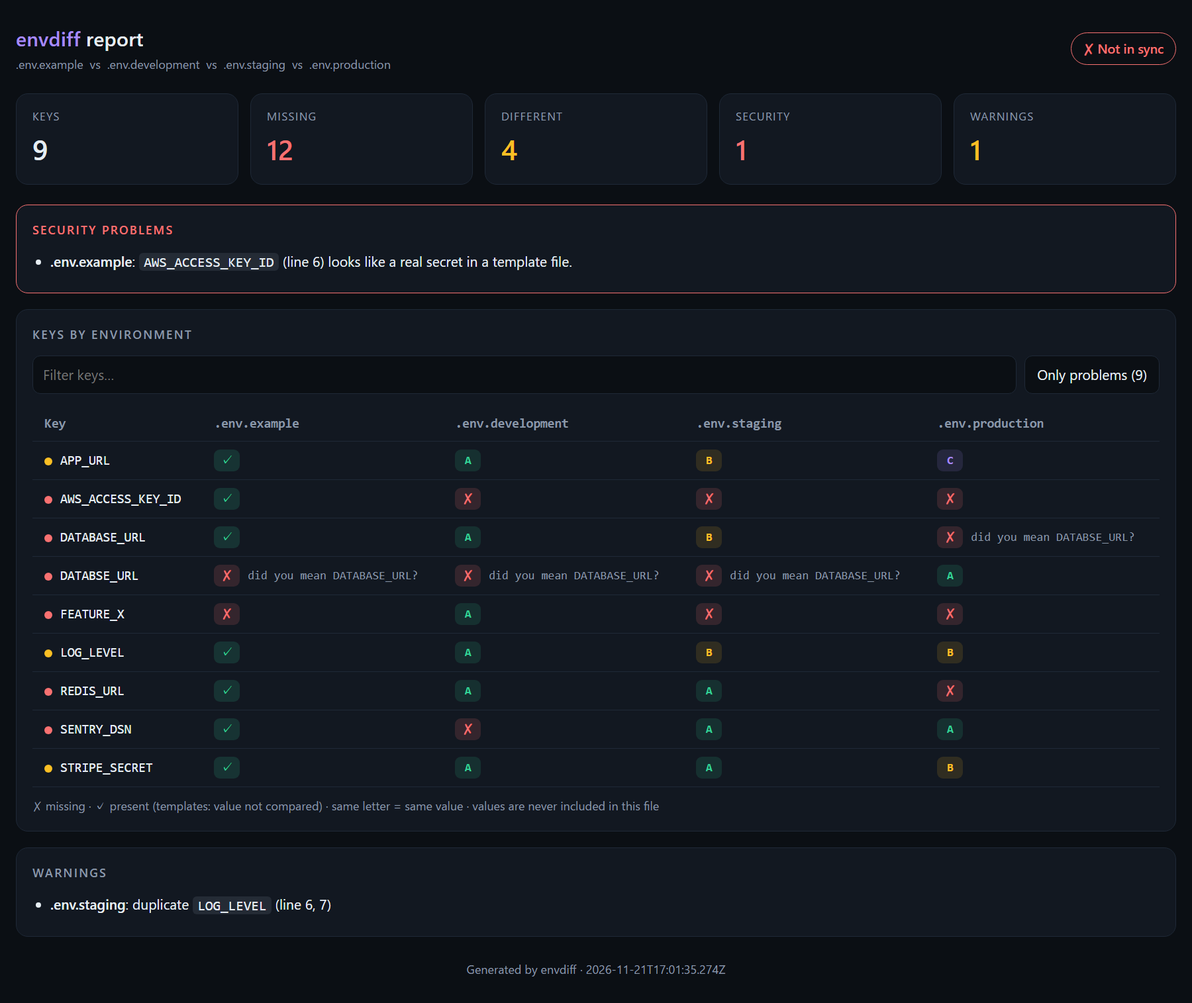
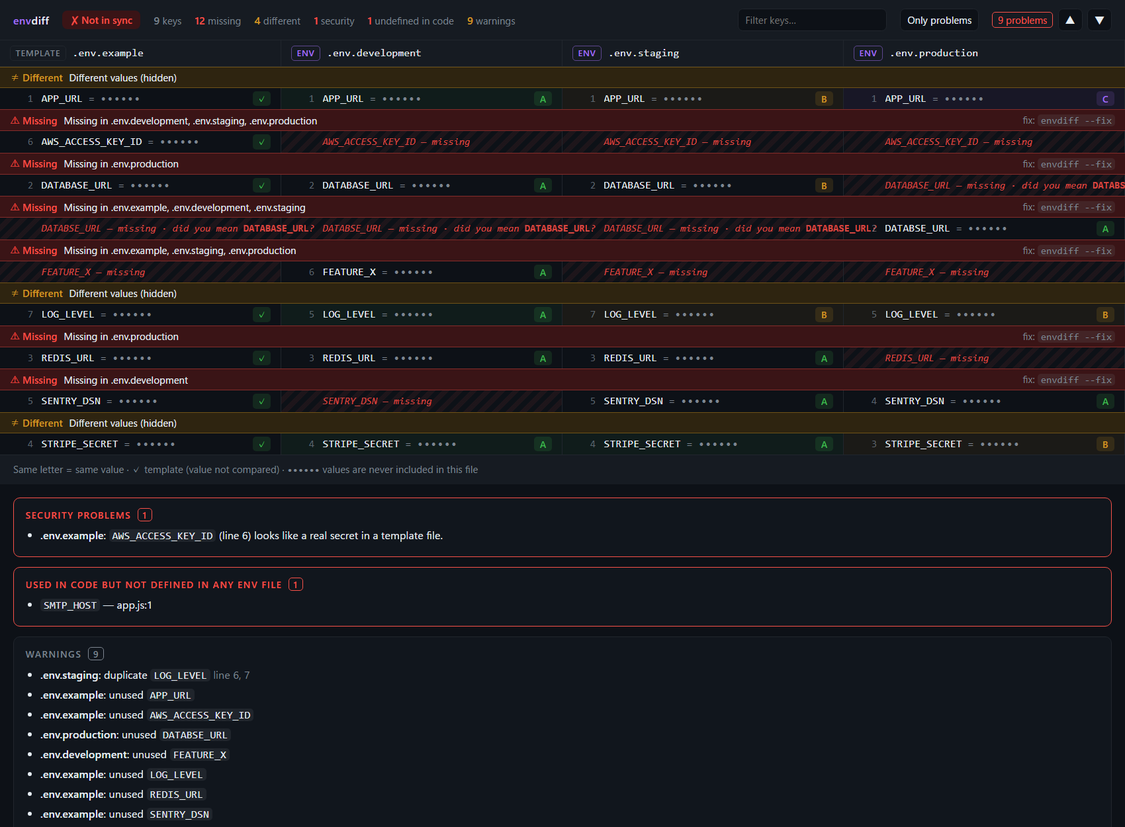
Editor-style side-by-side report and --open (#24)

diff --git a/src/html.js b/src/html.js
@@ -1,89 +1,122 @@
-// Renders a compare() report as one self-contained HTML page (no network, no values).
+// Renders a compare() report as one self-contained, editor-style HTML page (no network, no values).
 // Keys and file names come from user files, so everything is HTML-escaped.
 const esc = (s) => String(s).replace(/[&<>"']/g, (ch) => ({ '&': '&amp;', '<': '&lt;', '>': '&gt;', '"': '&quot;', "'": '&#39;' })[ch]);
 const letter = (n) => String.fromCharCode(65 + n);
+const isTemplate = (name) => /example|sample|template|dist/i.test(name);
+const MASK = '••••••'; // fixed width: does not even reveal value length
 
 export function renderHtml(r, { keysOnly = false, generated = new Date().toISOString() } = {}) {
-  const missingCount = r.missing.reduce((n, m) => n + m.keys.length, 0);
-  const problemKeys = new Set([...r.missing.flatMap((m) => m.keys), ...r.different]);
-  const stats = [
-    ['Keys', r.table.length, ''],
-    ['Missing', missingCount, missingCount ? 'bad' : 'good'],
-    ['Different', r.different.length, r.different.length ? 'warn' : 'good'],
-    ['Security', r.leaks.length, r.leaks.length ? 'bad' : 'good'],
-    ['Warnings', r.warnings.length, r.warnings.length ? 'warn' : 'good'],
-  ];
+  const n = r.files.length;
+  const missingCount = r.missing.reduce((s, m) => s + m.keys.length, 0);
+  const undef = r.undefinedInCode || [];
   const hint = (file, key) => r.suggestions.find((s) => s.file === file && s.missing === key);
-  const cell = (v, file, key) => {
-    if (v === null) {
-      const s = hint(file, key);
-      return `<td><span class="chip miss" title="Missing in ${esc(file)}">✗</span>${s ? `<span class="hint">did you mean ${esc(s.similar)}?</span>` : ''}</td>`;
-    }
-    return keysOnly || v < 0 ? '<td><span class="chip ok" title="Present (template value not compared)">✓</span></td>' : `<td><span class="chip g${v % 6}" title="Value group ${letter(v)}">${letter(v)}</span></td>`;
-  };
+  const cols = `style="grid-template-columns:repeat(${n},minmax(260px,1fr))"`;
+
+  const heads = r.files.map((f) => `<div class="tab"><span class="role ${isTemplate(f) ? 'tpl' : 'env'}">${isTemplate(f) ? 'TEMPLATE' : 'ENV'}</span><span class="path" title="${esc(f)}">${esc(f)}</span></div>`).join('');
+
+  let problems = 0;
   const rows = r.table.map((t) => {
-    const state = t.cells.includes(null) ? 'missing' : t.cells.some((v) => v > 0) ? 'different' : 'same';
-    return `<tr data-state="${state}" data-key="${esc(t.key.toLowerCase())}"><th scope="row"><span class="dot ${state}"></span>${esc(t.key)}</th>${t.cells.map((v, i) => cell(v, r.files[i], t.key)).join('')}</tr>`;
+    const missingIn = t.cells.map((v, i) => (v === null ? r.files[i] : null)).filter(Boolean);
+    const differs = r.different.includes(t.key);
+    const state = missingIn.length ? 'missing' : differs ? 'different' : 'same';
+    let band = '';
+    if (state !== 'same') {
+      problems++;
+      const what = missingIn.length ? `Missing in ${missingIn.map(esc).join(', ')}` : 'Different values (hidden)';
+      band = `<div class="band ${state}"><span class="tag">${state === 'missing' ? '⚠ Missing' : '≠ Different'}</span><span>${what}</span>${missingIn.length ? '<span class="fixhint">fix: <code>envdiff --fix</code></span>' : ''}</div>`;
+    }
+    const cells = t.cells.map((v, i) => {
+      if (v === null) {
+        const s = hint(r.files[i], t.key);
+        return `<div class="cell gone"><span class="ln"></span><span class="ghost">${esc(t.key)} — missing${s ? ` · did you mean <b>${esc(s.similar)}</b>?` : ''}</span></div>`;
+      }
+      const chip = keysOnly || v < 0 ? '<span class="chip tplchip" title="Template: value not compared">✓</span>' : `<span class="chip g${v % 6}" title="Value group ${letter(v)}: same letter means same value">${letter(v)}</span>`;
+      const tint = !keysOnly && v >= 0 && state === 'different' ? ` g${v % 6}bg` : '';
+      return `<div class="cell${tint}"><span class="ln">${t.lines[i] ?? ''}</span><code><span class="k">${esc(t.key)}</span> <span class="eq">=</span> <span class="mask">${MASK}</span></code>${chip}</div>`;
+    }).join('');
+    return `<div class="item" data-state="${state}" data-key="${esc(t.key.toLowerCase())}">${band}<div class="row" ${cols}>${cells}</div></div>`;
   }).join('');
+
   const leakText = (w) => (w.type === 'tracked-by-git'
-    ? `<b>${esc(w.file)}</b> is committed to git — remove it with <code>git rm --cached</code> and rotate its secrets.`
+    ? `<b>${esc(w.file)}</b> is committed to git. Remove it with <code>git rm --cached</code> and rotate its secrets.`
     : `<b>${esc(w.file)}</b>: <code>${esc(w.key)}</code> (line ${w.lines?.[0] ?? '?'}) looks like a real secret in a template file.`);
-  const warnText = (w) => `<b>${esc(w.file)}</b>: ${esc(w.type)}${w.key ? ` <code>${esc(w.key)}</code>` : ''}${w.lines ? ` (line ${w.lines.join(', ')})` : ''}`;
-  const list = (title, cls, items) => (items.length ? `<section class="panel ${cls}"><h2>${title}</h2><ul>${items.map((i) => `<li>${i}</li>`).join('')}</ul></section>` : '');
+  const warnText = (w) => `<b>${esc(w.file)}</b>: ${esc(w.type)}${w.key ? ` <code>${esc(w.key)}</code>` : ''}${w.lines ? ` <span class="muted">line ${w.lines.join(', ')}</span>` : ''}`;
+  const panel = (title, cls, items) => (items.length ? `<section class="panel ${cls}"><h2>${title} <span class="count">${items.length}</span></h2><ul>${items.map((i) => `<li>${i}</li>`).join('')}</ul></section>` : '');
+  const stat = (label, value, cls) => `<span class="stat ${value ? cls : 'zero'}"><b>${value}</b> ${label}</span>`;
 
   return `<!doctype html>
 <html lang="en"><head><meta charset="utf-8"><meta name="viewport" content="width=device-width,initial-scale=1">
 <meta http-equiv="Content-Security-Policy" content="default-src 'none'; style-src 'unsafe-inline'; script-src 'unsafe-inline'">
 <title>envdiff report</title>
 <style>
-:root{--bg:#0b0f14;--panel:#121821;--line:#1f2937;--fg:#e6edf3;--muted:#8b98a9;--good:#34d399;--warn:#fbbf24;--bad:#f87171;--accent:#a78bfa}
-@media (prefers-color-scheme:light){:root{--bg:#f6f8fa;--panel:#fff;--line:#d8dee4;--fg:#1f2328;--muted:#59636e;--good:#1a7f37;--warn:#9a6700;--bad:#cf222e;--accent:#8250df}}
-*{box-sizing:border-box}body{margin:0;background:var(--bg);color:var(--fg);font:14px/1.5 system-ui,-apple-system,Segoe UI,Roboto,sans-serif}
-.wrap{max-width:1200px;margin:0 auto;padding:24px 16px 48px}
-header{display:flex;flex-wrap:wrap;gap:12px;align-items:center;justify-content:space-between;margin-bottom:20px}
-h1{font-size:20px;margin:0;letter-spacing:.2px}h1 span{color:var(--accent)}.sub{color:var(--muted);font-size:12px;margin-top:2px}
-.pill{padding:6px 12px;border-radius:999px;font-weight:600;font-size:13px;border:1px solid}
-.pill.good{color:var(--good);border-color:var(--good)}.pill.bad{color:var(--bad);border-color:var(--bad)}
-.stats{display:grid;grid-template-columns:repeat(auto-fit,minmax(150px,1fr));gap:12px;margin-bottom:20px}
-.stat{background:var(--panel);border:1px solid var(--line);border-radius:12px;padding:14px 16px}
-.stat .label{color:var(--muted);font-size:11px;text-transform:uppercase;letter-spacing:1px}.stat .n{font-size:28px;font-weight:700;margin-top:4px}
-.stat.good .n{color:var(--good)}.stat.warn .n{color:var(--warn)}.stat.bad .n{color:var(--bad)}
-.panel{background:var(--panel);border:1px solid var(--line);border-radius:12px;padding:16px;margin-bottom:16px}
-.panel h2{font-size:12px;text-transform:uppercase;letter-spacing:1.5px;margin:0 0 12px;color:var(--muted)}
-.panel.bad{border-color:var(--bad)}.panel.bad h2{color:var(--bad)}.panel ul{margin:0;padding-left:18px}.panel li{margin:4px 0}
-.tools{display:flex;flex-wrap:wrap;gap:8px;margin-bottom:12px}
-input[type=search]{flex:1;min-width:200px;background:var(--bg);color:var(--fg);border:1px solid var(--line);border-radius:8px;padding:8px 10px;font:inherit}
-.tools button{background:var(--bg);color:var(--fg);border:1px solid var(--line);border-radius:8px;padding:8px 12px;font:inherit;cursor:pointer}
-.tools button[aria-pressed=true]{border-color:var(--accent);color:var(--accent)}
-.scroll{overflow-x:auto}table{border-collapse:collapse;width:100%;font-family:ui-monospace,SFMono-Regular,Menlo,Consolas,monospace;font-size:13px}
-thead th{position:sticky;top:0;background:var(--panel);text-align:left;color:var(--muted);font-weight:600;padding:8px 12px;border-bottom:1px solid var(--line);white-space:nowrap}
-tbody th{text-align:left;font-weight:500;padding:8px 12px;white-space:nowrap}td{padding:8px 12px;white-space:nowrap}
-tbody tr{border-bottom:1px solid var(--line)}tbody tr:hover{background:color-mix(in srgb,var(--accent) 6%,transparent)}
-.dot{display:inline-block;width:8px;height:8px;border-radius:50%;margin-right:8px;vertical-align:middle}
-.dot.same{background:var(--good)}.dot.different{background:var(--warn)}.dot.missing{background:var(--bad)}
-.chip{display:inline-flex;align-items:center;justify-content:center;min-width:26px;height:22px;padding:0 6px;border-radius:6px;font-weight:700;font-size:12px}
-.chip.miss{color:var(--bad);background:color-mix(in srgb,var(--bad) 15%,transparent)}.chip.ok{color:var(--good);background:color-mix(in srgb,var(--good) 15%,transparent)}
-.g0{color:#34d399;background:#34d39922}.g1{color:#fbbf24;background:#fbbf2422}.g2{color:#a78bfa;background:#a78bfa22}.g3{color:#60a5fa;background:#60a5fa22}.g4{color:#f472b6;background:#f472b622}.g5{color:#2dd4bf;background:#2dd4bf22}
-.hint{margin-left:8px;color:var(--muted);font-size:12px}.legend{color:var(--muted);font-size:12px;margin-top:10px}
-code{font-family:ui-monospace,Menlo,Consolas,monospace;background:color-mix(in srgb,var(--muted) 15%,transparent);padding:1px 5px;border-radius:4px}
-footer{color:var(--muted);font-size:12px;text-align:center;margin-top:24px}
-</style></head><body><div class="wrap">
-<header><div><h1><span>envdiff</span> report</h1><div class="sub">${r.files.map(esc).join(' &nbsp;vs&nbsp; ')}</div></div>
-<div class="pill ${r.ok ? 'good' : 'bad'}">${r.ok ? '✓ In sync' : '✗ Not in sync'}</div></header>
-<div class="stats">${stats.map(([l, n, c]) => `<div class="stat ${c}"><div class="label">${l}</div><div class="n">${n}</div></div>`).join('')}</div>
-${list('Security problems', 'bad', r.leaks.map(leakText))}
-${list('Used in code but not defined in any env file', 'bad', (r.undefinedInCode || []).map((u) => `<code>${esc(u.key)}</code> — ${esc(u.refs[0].file)}:${u.refs[0].line}${u.refs.length > 1 ? ` (+${u.refs.length - 1} more)` : ''}`))}
-<section class="panel"><h2>Keys by environment</h2>
-<div class="tools"><input type="search" id="q" placeholder="Filter keys…" aria-label="Filter keys">
-<button type="button" id="only" aria-pressed="false">Only problems (${problemKeys.size})</button></div>
-<div class="scroll"><table><thead><tr><th scope="col">Key</th>${r.files.map((f) => `<th scope="col">${esc(f)}</th>`).join('')}</tr></thead><tbody>${rows}</tbody></table></div>
-<div class="legend">✗ missing · ✓ present${keysOnly ? '' : ' (templates: value not compared) · same letter = same value'} · values are never included in this file</div></section>
-${list('Warnings', '', r.warnings.map(warnText))}
-<footer>Generated by envdiff · ${esc(generated)}</footer></div>
+:root{--bg:#0d1117;--bar:#161b22;--panel:#11161d;--line:#21262d;--fg:#e6edf3;--muted:#7d8590;--bad:#f85149;--badbg:#3a1416;--warn:#d29922;--warnbg:#2e2410;--good:#3fb950;--accent:#a371f7}
+@media (prefers-color-scheme:light){:root{--bg:#ffffff;--bar:#f6f8fa;--panel:#ffffff;--line:#d0d7de;--fg:#1f2328;--muted:#59636e;--bad:#cf222e;--badbg:#ffebe9;--warn:#9a6700;--warnbg:#fff8c5;--good:#1a7f37;--accent:#8250df}}
+*{box-sizing:border-box}body{margin:0;background:var(--bg);color:var(--fg);font:13px/1.5 system-ui,-apple-system,Segoe UI,Roboto,sans-serif}
+code,.mono{font-family:ui-monospace,SFMono-Regular,Menlo,Consolas,monospace}
+.top{display:flex;flex-wrap:wrap;align-items:center;gap:10px 16px;padding:10px 16px;background:var(--bar);border-bottom:1px solid var(--line);position:sticky;top:0;z-index:3}
+.brand{font-weight:700;letter-spacing:.3px}.brand span{color:var(--accent)}
+.status{padding:2px 10px;border-radius:6px;font-weight:600;font-size:12px}.status.bad{color:var(--bad);background:var(--badbg)}.status.good{color:var(--good);background:color-mix(in srgb,var(--good) 15%,transparent)}
+.stat{font-size:12px;color:var(--muted)}.stat b{font-size:13px}.stat.bad b{color:var(--bad)}.stat.warn b{color:var(--warn)}.stat.zero b{color:var(--muted)}
+.spacer{flex:1}
+.nav{display:flex;align-items:center;gap:6px}.nav .count{font-size:12px;color:var(--bad);border:1px solid var(--bad);border-radius:4px;padding:0 6px}
+button,input[type=search]{background:var(--bg);color:var(--fg);border:1px solid var(--line);border-radius:6px;font:inherit;font-size:12px;padding:4px 8px}
+button{cursor:pointer}button:hover{border-color:var(--accent)}button[aria-pressed=true]{border-color:var(--accent);color:var(--accent)}
+input[type=search]{width:180px}
+.editor{overflow-x:auto}
+.heads,.row{display:grid}
+.heads{background:var(--bar);border-bottom:1px solid var(--line)}
+.tab{display:flex;align-items:center;gap:8px;padding:6px 12px;border-right:1px solid var(--line);min-width:0}
+.role{font-size:10px;font-weight:700;letter-spacing:.8px;padding:1px 6px;border-radius:4px;border:1px solid var(--line);color:var(--muted)}.role.env{color:var(--accent);border-color:color-mix(in srgb,var(--accent) 50%,transparent)}
+.path{font-family:ui-monospace,Menlo,Consolas,monospace;white-space:nowrap;overflow:hidden;text-overflow:ellipsis}
+.cell{display:flex;align-items:center;gap:10px;padding:2px 12px 2px 0;border-right:1px solid var(--line);min-height:26px;white-space:nowrap}
+.ln{width:40px;text-align:right;color:var(--muted);font-family:ui-monospace,Menlo,Consolas,monospace;font-size:12px;flex:none;opacity:.7}
+.cell code{flex:1;overflow:hidden;text-overflow:ellipsis}.k{color:var(--fg)}.eq{color:var(--muted)}.mask{color:var(--muted);letter-spacing:1px}
+.ghost{color:var(--bad);font-style:italic;opacity:.85;font-family:ui-monospace,Menlo,Consolas,monospace;font-size:12px}.ghost b{font-style:normal}
+.cell.gone{background:repeating-linear-gradient(135deg,transparent 0 6px,color-mix(in srgb,var(--bad) 7%,transparent) 6px 12px)}
+.item .row:hover{background:color-mix(in srgb,var(--accent) 5%,transparent)}
+.band{display:flex;flex-wrap:wrap;align-items:center;gap:8px;padding:3px 12px;font-size:12px;border-top:1px solid;border-bottom:1px solid}
+.band.missing{background:var(--badbg);border-color:color-mix(in srgb,var(--bad) 40%,transparent)}.band.missing .tag{color:var(--bad)}
+.band.different{background:var(--warnbg);border-color:color-mix(in srgb,var(--warn) 40%,transparent)}.band.different .tag{color:var(--warn)}
+.band .tag{font-weight:700}.fixhint{margin-left:auto;color:var(--muted)}
+.item.current .band{outline:2px solid var(--accent);outline-offset:-2px}
+.chip{display:inline-flex;align-items:center;justify-content:center;min-width:22px;height:18px;padding:0 5px;border-radius:4px;font-weight:700;font-size:11px;flex:none}
+.tplchip{color:var(--good);background:color-mix(in srgb,var(--good) 14%,transparent)}
+.g0{color:#3fb950;background:#3fb95024}.g1{color:#d29922;background:#d2992224}.g2{color:#a371f7;background:#a371f724}.g3{color:#58a6ff;background:#58a6ff24}.g4{color:#f778ba;background:#f778ba24}.g5{color:#39c5cf;background:#39c5cf24}
+.g0bg{background:#3fb95012}.g1bg{background:#d2992212}.g2bg{background:#a371f712}.g3bg{background:#58a6ff12}.g4bg{background:#f778ba12}.g5bg{background:#39c5cf12}
+.legend{padding:8px 16px;color:var(--muted);font-size:12px;border-top:1px solid var(--line);background:var(--bar)}
+.panels{padding:16px;display:grid;gap:12px}
+.panel{background:var(--panel);border:1px solid var(--line);border-radius:8px;padding:12px 14px}.panel.bad{border-color:var(--bad)}
+.panel h2{margin:0 0 6px;font-size:11px;letter-spacing:1.2px;text-transform:uppercase;color:var(--muted)}.panel.bad h2{color:var(--bad)}
+.panel .count{border:1px solid currentColor;border-radius:4px;padding:0 5px;margin-left:4px}.panel ul{margin:0;padding-left:18px}.panel li{margin:3px 0}
+.muted{color:var(--muted)}
+code{background:color-mix(in srgb,var(--muted) 14%,transparent);padding:0 4px;border-radius:4px}.cell code{background:none;padding:0}
+footer{color:var(--muted);font-size:11px;text-align:center;padding:16px}
+</style></head><body>
+<div class="top">
+<span class="brand"><span>env</span>diff</span>
+<span class="status ${r.ok ? 'good' : 'bad'}">${r.ok ? '✓ In sync' : '✗ Not in sync'}</span>
+${stat('keys', r.table.length, '')}${stat('missing', missingCount, 'bad')}${stat('different', r.different.length, 'warn')}${stat('security', r.leaks.length, 'bad')}${undef.length ? stat('undefined in code', undef.length, 'bad') : ''}${stat('warnings', r.warnings.length, 'warn')}
+<span class="spacer"></span>
+<input type="search" id="q" placeholder="Filter keys…" aria-label="Filter keys">
+<button type="button" id="only" aria-pressed="false">Only problems</button>
+<span class="nav"><span class="count" id="pos">${problems} problem${problems === 1 ? '' : 's'}</span><button type="button" id="prev" aria-label="Previous problem">▲</button><button type="button" id="next" aria-label="Next problem">▼</button></span>
+</div>
+<div class="editor"><div class="heads" ${cols}>${heads}</div>${rows}</div>
+<div class="legend">Same letter = same value · ✓ template (value not compared) · <span class="mono">${MASK}</span> values are never included in this file</div>
+<div class="panels">
+${panel('Security problems', 'bad', r.leaks.map(leakText))}
+${panel('Used in code but not defined in any env file', 'bad', undef.map((u) => `<code>${esc(u.key)}</code> — ${esc(u.refs[0].file)}:${u.refs[0].line}${u.refs.length > 1 ? ` <span class="muted">(+${u.refs.length - 1} more)</span>` : ''}`))}
+${panel('Warnings', '', r.warnings.map(warnText))}
+</div>
+<footer>Generated by envdiff · ${esc(generated)}</footer>
 <script>
-const q=document.getElementById('q'),only=document.getElementById('only'),rows=[...document.querySelectorAll('tbody tr')];
-function apply(){const t=q.value.toLowerCase(),p=only.getAttribute('aria-pressed')==='true';for(const r of rows)r.hidden=!r.dataset.key.includes(t)||(p&&r.dataset.state==='same');}
+const q=document.getElementById('q'),only=document.getElementById('only'),items=[...document.querySelectorAll('.item')];
+const probs=()=>items.filter(i=>i.dataset.state!=='same'&&!i.hidden);let cur=-1;
+function apply(){const t=q.value.toLowerCase(),p=only.getAttribute('aria-pressed')==='true';for(const i of items)i.hidden=!i.dataset.key.includes(t)||(p&&i.dataset.state==='same');}
+function go(d){const ps=probs();if(!ps.length)return;cur=(cur+d+ps.length)%ps.length;items.forEach(i=>i.classList.remove('current'));ps[cur].classList.add('current');ps[cur].scrollIntoView({block:'center',behavior:'smooth'});document.getElementById('pos').textContent=(cur+1)+' / '+ps.length;}
 q.addEventListener('input',apply);only.addEventListener('click',()=>{only.setAttribute('aria-pressed',String(only.getAttribute('aria-pressed')!=='true'));apply();});
+document.getElementById('prev').onclick=()=>go(-1);document.getElementById('next').onclick=()=>go(1);
+document.addEventListener('keydown',e=>{if(e.target===q)return;if(e.key==='j')go(1);if(e.key==='k')go(-1);});
 </script></body></html>
 `;
 }

diff --git a/bin/envdiff.js b/bin/envdiff.js
@@ -1,8 +1,9 @@
 #!/usr/bin/env node
 import { readFileSync, appendFileSync, writeFileSync, readdirSync, statSync } from 'node:fs';
 import { parseArgs } from 'node:util';
-import { spawnSync } from 'node:child_process';
-import { basename, dirname, resolve } from 'node:path';
+import { spawnSync, spawn } from 'node:child_process';
+import { tmpdir } from 'node:os';
+import { basename, dirname, resolve, join } from 'node:path';
 import { compare } from '../src/index.js';
 import { renderHtml } from '../src/html.js';
 import { scanCode } from '../src/scan.js';
@@ -20,6 +21,7 @@ Options:
   --table       Key x file grid: ✗ missing, same letter = same value
   --fix         Append missing keys (empty values) to the files that lack them
   --html FILE   Also write a visual HTML report (never contains values)
+  --open        Open the visual report in your browser (temp file if no --html)
   --scan DIR    Scan source code in DIR: keys used in code but not defined fail,
                 defined keys never used in code warn (e.g. --scan .)
   --json        Machine-readable output
@@ -32,7 +34,7 @@ let args;
 try {
   args = parseArgs({ allowPositionals: true, options: {
     'keys-only': { type: 'boolean' }, json: { type: 'boolean' }, ignore: { type: 'string', multiple: true }, strict: { type: 'boolean' },
-    table: { type: 'boolean' }, fix: { type: 'boolean' }, html: { type: 'string' }, scan: { type: 'string' },
+    table: { type: 'boolean' }, fix: { type: 'boolean' }, html: { type: 'string' }, scan: { type: 'string' }, open: { type: 'boolean' },
     help: { type: 'boolean', short: 'h' }, version: { type: 'boolean', short: 'v' } } });
 } catch (e) { console.error(e.message + '\n\n' + HELP); process.exit(2); }
 const { values: o, positionals } = args;
@@ -95,10 +97,18 @@ if (o.fix) {
   }
   r = compare(files, opts);
 }
+// --open without --html: write the report to a temp file (it never contains values) and open it.
+if (o.open && !o.html) o.html = join(tmpdir(), `envdiff-report-${Date.now()}.html`);
 if (o.html) {
   if (names.some((n) => resolve(n) === resolve(o.html))) { console.error("envdiff: --html must not overwrite an input file"); process.exit(2); }
   try { writeFileSync(o.html, renderHtml(r, { keysOnly: opts.keysOnly })); } catch (e) { console.error(`envdiff: cannot write ${o.html}: ${e.code}`); process.exit(2); }
   if (!o.json) console.error(`envdiff: report written to ${o.html}`);
+  if (o.open) {
+    // explorer.exe / open / xdg-open take the path as one argument: no shell, so file names can't inject commands.
+    const cmd = process.platform === 'win32' ? 'explorer.exe' : process.platform === 'darwin' ? 'open' : 'xdg-open';
+    const args = [resolve(o.html)];
+    spawn(cmd, args, { stdio: 'ignore', detached: true }).on('error', () => console.error('envdiff: could not open a browser; open the file above manually')).unref();
+  }
 }
 if (o.json) { console.log(JSON.stringify(o.fix ? { ...r, fixed } : r, null, 2)); process.exit(r.ok ? 0 : 1); }
 

diff --git a/test/envdiff.test.js b/test/envdiff.test.js
@@ -84,7 +84,7 @@ test('secret patterns: GitLab, npm, Azure, JWT (positive and negative)', () => {
 
 test('table groups equal values without exposing them', () => {
   const r = compare([{ name: 'a', text: 'X=1\nY=1' }, { name: 'b', text: 'X=2' }, { name: 'c', text: 'X=1\nY=9' }]);
-  assert.deepEqual(r.table, [{ key: 'X', cells: [0, 1, 0] }, { key: 'Y', cells: [0, null, 1] }]);
+  assert.deepEqual(r.table, [{ key: 'X', cells: [0, 1, 0], lines: [1, 1, 1] }, { key: 'Y', cells: [0, null, 1], lines: [2, null, 2] }]);
   const d = mkdtempSync(join(tmpdir(), 'envdiff-'));
   writeFileSync(join(d, 'a.env'), 'X=topsecret\nY=1');
   writeFileSync(join(d, 'b.env'), 'X=othersecret');
@@ -146,7 +146,7 @@ test('html report: no values, escaped names, refuses to overwrite inputs', () =>
   const r = run(['a.env', 'b.env', '--html', 'report.html'], d);
   assert.equal(r.code, 1);
   const out = readFileSync(join(d, 'report.html'), 'utf8');
-  assert.match(out, /Keys by environment/);
+  assert.match(out, /class="editor"/);
   assert.ok(!out.includes('supersecret') && !out.includes('othersecret'));
   assert.equal(run(['a.env', 'b.env', '--html', 'b.env'], d).code, 2);
   assert.equal(readFileSync(join(d, 'b.env'), 'utf8'), 'X=othersecret');
@@ -200,7 +200,7 @@ test('zero-arg mode compares .env.example with .env, keys only', () => {
 test('template values are placeholders: never counted as different', () => {
   const r = compare([{ name: '.env.example', text: 'A=changeme' }, { name: '.env.dev', text: 'A=1' }, { name: '.env.prod', text: 'A=1' }]);
   assert.deepEqual(r.different, []);
-  assert.deepEqual(r.table, [{ key: 'A', cells: [-1, 0, 0] }]);
+  assert.deepEqual(r.table, [{ key: 'A', cells: [-1, 0, 0], lines: [1, 1, 1] }]);
   assert.equal(r.ok, true);
 });
 

diff --git a/src/index.js b/src/index.js
@@ -123,7 +123,7 @@ export function compare(files, { keysOnly = false, ignore = [], strict = false, 
       if (!groups.includes(v)) groups.push(v);
       return groups.indexOf(v);
     });
-    return { key, cells };
+    return { key, cells, lines: parsed.map((p) => p.vars.get(key)?.line ?? null) };
   });
   // used: Map<key, [{file, line}]> from scanCode(). Code needs a key no env file defines -> fail; defined but unused -> warn.
   const undefinedInCode = used ? [...used].filter(([k]) => !skip(k) && !parsed.some((p) => p.vars.has(k))).map(([key, refs]) => ({ key, refs })).sort((a, b) => a.key.localeCompare(b.key)) : [];

diff --git a/README.md b/README.md
@@ -71,12 +71,13 @@ Or without the action: `npx @guihakka2/envdiff .env.example .env.ci --keys-only`
 ## Visual report
 
 ```bash
-npx @guihakka2/envdiff .env.example .env.development .env.staging .env.production --html report.html
+npx @guihakka2/envdiff --open                      # opens the visual report in your browser
+npx @guihakka2/envdiff --scan . --html report.html  # or save it, e.g. as a CI artifact
 ```
 
-<p align="center"><img src="docs/report.png" alt="envdiff HTML report: key by environment grid, security problems and stats" width="760"></p>
+<p align="center"><img src="docs/report.png" alt="envdiff side-by-side report: one column per env file, missing and different keys highlighted, values masked" width="760"></p>
 
-One self-contained HTML file (dark and light mode, works offline, filter + "only problems"). Like the terminal output, it **never contains values**, so it is safe to attach to CI runs or share with your team.
+A side-by-side, editor-style view: one column per env file with line numbers, red bands for missing keys, amber bands for different values, ▲▼ (or `j` / `k`) to jump between problems, filter and "only problems". One self-contained HTML file, dark and light mode, works offline. Values show as `••••••` plus a letter (same letter = same value): the file **never contains values**, so it is safe to attach to CI runs or share with your team.
 
 ## Options
 
@@ -88,6 +89,7 @@ One self-contained HTML file (dark and light mode, works offline, filter + "only
 | `--table` | Grid of keys × files: `✗` missing, same letter = same value (values never shown) |
 | `--fix` | Appends missing keys with **empty** values to the files that lack them. Never copies values, never edits existing lines. |
 | `--html FILE` | Also writes a visual HTML report (never contains values) |
+| `--open` | Opens the visual report in your browser |
 | `--scan DIR` | Compare with env keys used in source code (`--scan .`) |
 | `--json` | Machine-readable report (never contains values) |
 | `-h`, `--help` | Help |

diff --git a/README.ja.md b/README.ja.md
@@ -47,6 +47,7 @@ npx @guihakka2/envdiff .env.staging .env.production
 | `--table` | キー × ファイルの表：`✗` 不足、同じ文字 = 同じ値（値は表示しません） |
 | `--fix` | 不足しているキーを**空の値**で追記。値はコピーしません。 |
 | `--html FILE` | 見やすい HTML レポートも出力（値は含まれません） |
+| `--open` | ビジュアルレポートをブラウザで開く |
 | `--scan DIR` | ソースコードで使われている環境変数と比較（`--scan .`） |
 | `--json` | 機械可読なレポート（値は含まれません） |
 

diff --git a/README.pt-BR.md b/README.pt-BR.md
@@ -47,6 +47,7 @@ npx @guihakka2/envdiff .env.staging .env.production
 | `--table` | Grade de chaves × arquivos: `✗` faltando, mesma letra = mesmo valor |
 | `--fix` | Adiciona as chaves que faltam com valor **vazio**. Nunca copia valores. |
 | `--html ARQUIVO` | Gera também um relatório visual em HTML (nunca contém valores) |
+| `--open` | Abre o relatório visual no navegador |
 | `--scan PASTA` | Compara com as chaves usadas no código-fonte (`--scan .`) |
 | `--json` | Relatório para máquinas (nunca contém valores) |
 
